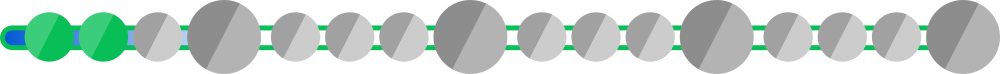
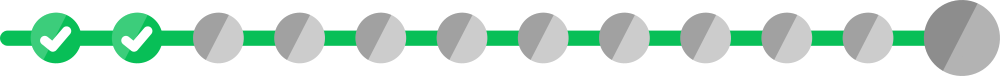
correcciones
eliminado NIKO cambio contador de puntos

diff --git a/index.html b/index.html
@@ -155,6 +155,7 @@
             <!--<img id="fondo" src="img/Niko/HI.png" style="width:50% ; margin-top:0px" />-->
         </div>
         <div data-role="footer" data-position="fixed" class="footBG" style="background-color:transparent; overflow:hidden; border:none;">
+            <br />
             <p id="pregunta1" style="text-shadow:none; color:rgb(0, 0, 0); width:80%; margin:15px 15px 10px 25px">Pregunta</p>
             <center>
                 <div class="ui-grid-b ui-responsive" style="background-color:transparent">
@@ -174,6 +175,7 @@
                         </a>
                     </div>
                 </div>
+                <img id="cambiar" src="img/Puntos/00.png" style="width:80%" />
             </center>
         </div>
         <div id="popupSI" data-role="popup" data-position-to="window" style="background-color:rgba(0, 155, 0, 0.75)" data-overlay-theme="b" data-dismissible="false">
